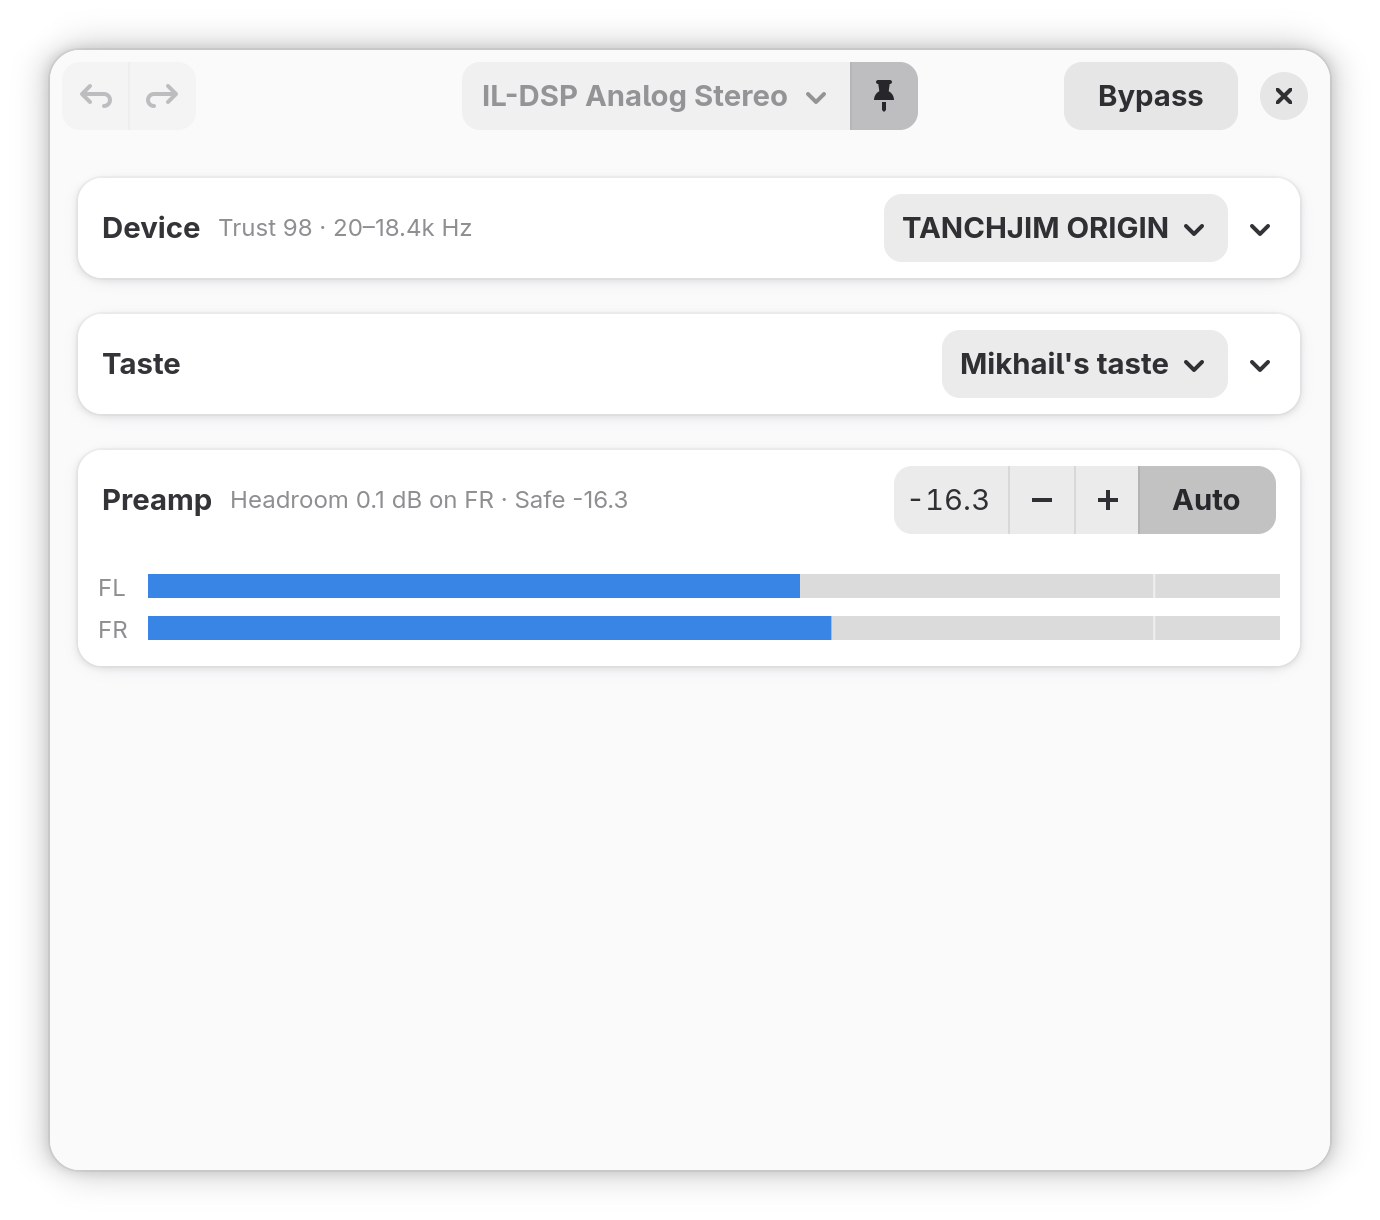
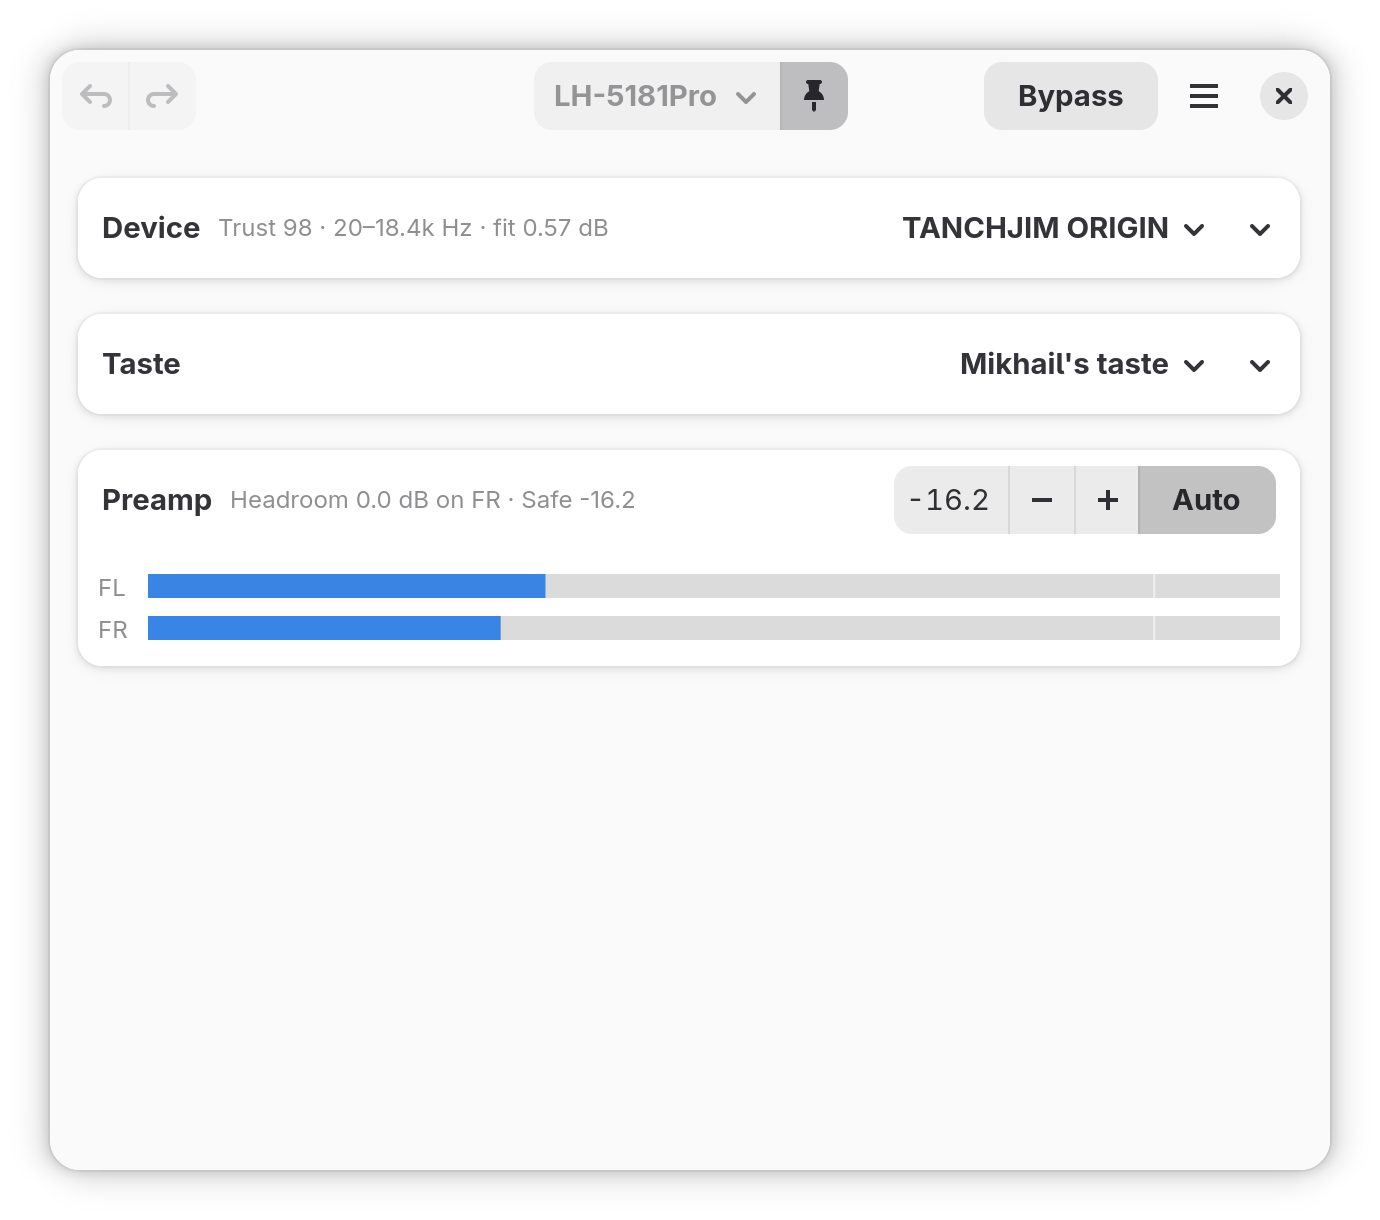
docs: the repository moved, and every link follows
The Flathub linter's naming law took the cheap road: the GitHub
repository is now NTMan/PerDeviceEQ (the app-id's last
component, case-insensitively), the old slug redirects forever,
and the app id every field installation already carries stays
exactly as it is. This commit walks every reference in the
tree: the spec closes in one line -- %{reponame} was
parametrized for exactly this day, and %autosetup now matches
the RENAMED tarball prefix too (GitHub archives take their top
directory from the repo name, so the tag tarball is new bytes
with a new sha); the metainfo homepage, bugtracker and
screenshot; the About window's two links; the lua header; both
READMEs' clone lines; and the flatpak manifest's commented
submission stanza, which also pays off the stale cp312 comment
-- the wheels were cp313 all along.

Left alone on purpose: every occurrence of per-device-eq as a
NAME -- the package, the binary, the COPR project, the config
paths -- none of that moved; only the repository did.

diff --git a/perdeviceeq/gui.py b/perdeviceeq/gui.py
@@ -1059,8 +1059,8 @@ class EqWindow(Adw.ApplicationWindow):
             application_icon=APP_ID,
             developer_name="Mikhail Gavrilov",
             version=__version__,
-            website="https://github.com/NTMan/per-device-eq",
-            issue_url="https://github.com/NTMan/per-device-eq"
+            website="https://github.com/NTMan/PerDeviceEQ",
+            issue_url="https://github.com/NTMan/PerDeviceEQ"
                       "/issues",
             license_type=Gtk.License.GPL_3_0)
         d.present(self)

diff --git a/README.md b/README.md
@@ -91,7 +91,7 @@ systemctl --user restart wireplumber
 sudo dnf install gtk4 libadwaita python3-gobject python3-cairo \
     python3-numpy python3-scipy python3-soundfile \
     pipewire pipewire-utils wireplumber
-git clone https://github.com/NTMan/per-device-eq.git
+git clone https://github.com/NTMan/PerDeviceEQ.git
 cd per-device-eq
 chmod +x per-device-eq.py
 ./per-device-eq.py

diff --git a/README.ru.md b/README.ru.md
@@ -76,7 +76,7 @@ sudo dnf install per-device-eq
 sudo dnf install gtk4 libadwaita python3-gobject python3-cairo \
     python3-numpy python3-scipy python3-soundfile \
     pipewire pipewire-utils wireplumber
-git clone https://github.com/NTMan/per-device-eq.git
+git clone https://github.com/NTMan/PerDeviceEQ.git
 cd per-device-eq
 chmod +x per-device-eq.py
 ./per-device-eq.py